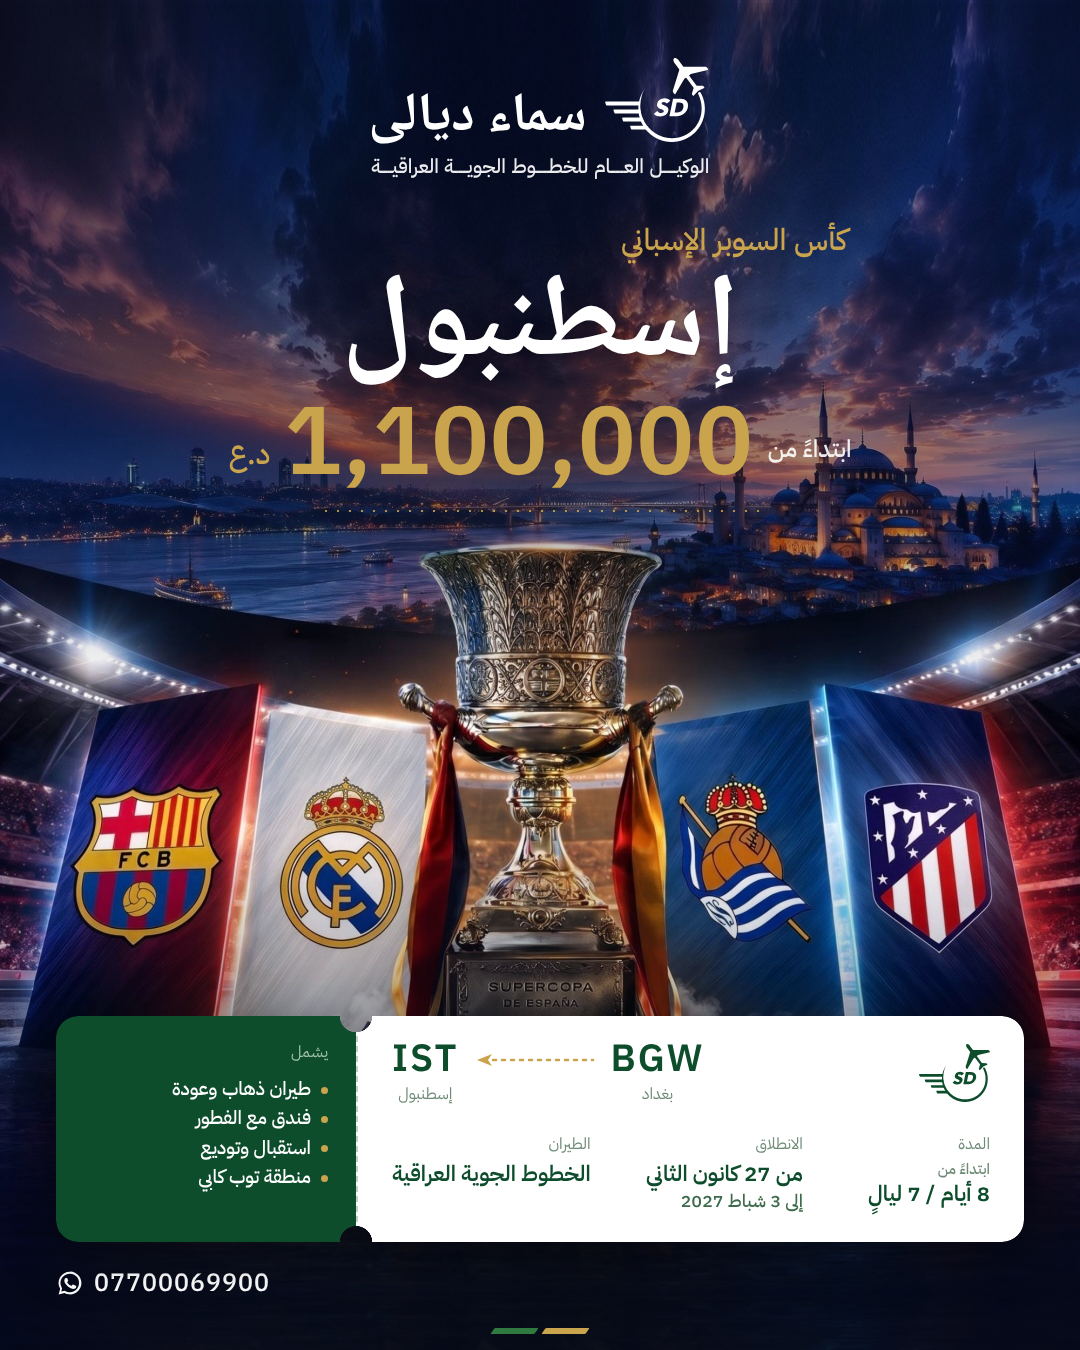
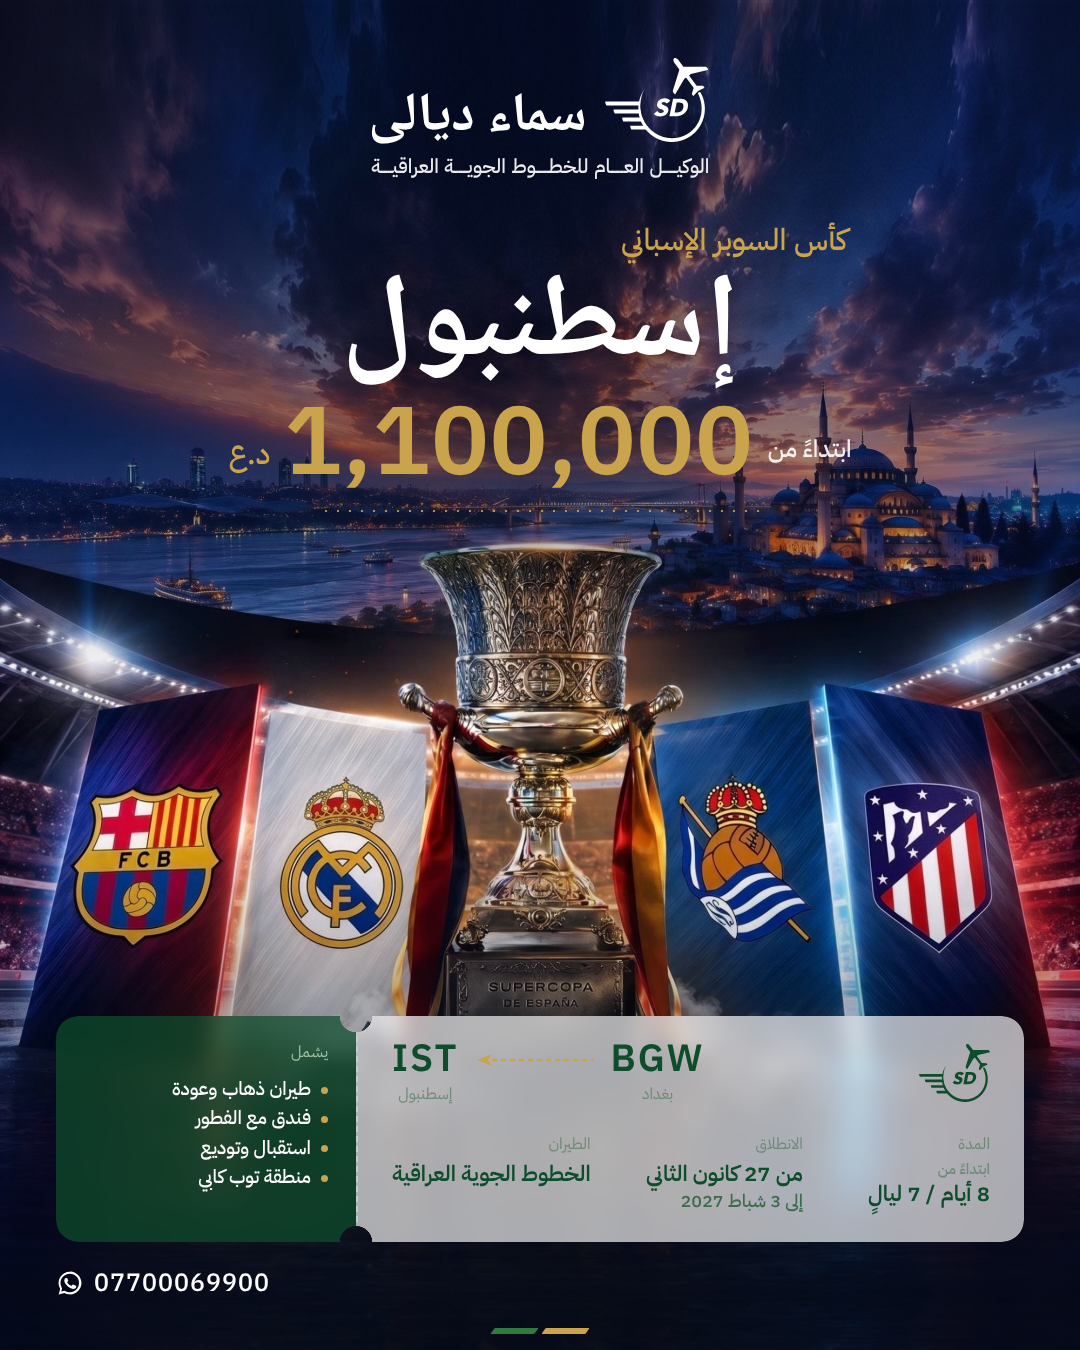
كأس السوبر: بطاقة صعود شبه شفافة بتأثير زجاجي
Claude-Session: https://claude.ai/code/session_01EprWPUJDuKvYHn821imCPv

Changed region(s): [[0.1833, 0.7467, 0.9472, 0.9333]]

diff --git a/09-التصاميم/كأس السوبر الإسباني - نظيف مع بطاقة صعود/إعلان.html b/09-التصاميم/كأس السوبر الإسباني - نظيف مع بطاقة صعود/إعلان.html
@@ -54,10 +54,10 @@
   .kicker + .dest{margin-top:10px}
   /* boarding pass at the bottom */
   .pass{position:absolute;left:56px;right:56px;bottom:108px;height:226px;display:flex;direction:rtl;
-        filter:drop-shadow(0 12px 28px rgba(0,0,0,.35))}
-  .pass .main{flex:1;background:#FFFFFF;border-radius:0 22px 22px 0;padding:24px 34px 22px;color:var(--green);position:relative;border-left:2.5px dashed #BFD2C4;
+        filter:none}
+  .pass .main{flex:1;background:rgba(255,255,255,.66);backdrop-filter:blur(10px) saturate(1.1);-webkit-backdrop-filter:blur(14px);border-radius:0 22px 22px 0;padding:24px 34px 22px;color:var(--green);position:relative;border-left:2.5px dashed #BFD2C4;
      -webkit-mask:radial-gradient(circle at 0 0,transparent 16px,#000 16.5px) top/100% 51% no-repeat,radial-gradient(circle at 0 100%,transparent 16px,#000 16.5px) bottom/100% 51% no-repeat}
-  .pass .stubx{width:300px;background:var(--green);border-radius:22px 0 0 22px;padding:24px 28px;color:#FFFFFF;position:relative;
+  .pass .stubx{width:300px;background:rgba(14,77,44,.72);backdrop-filter:blur(10px);-webkit-backdrop-filter:blur(14px);border-radius:22px 0 0 22px;padding:24px 28px;color:#FFFFFF;position:relative;
      -webkit-mask:radial-gradient(circle at 100% 0,transparent 16px,#000 16.5px) top/100% 51% no-repeat,radial-gradient(circle at 100% 100%,transparent 16px,#000 16.5px) bottom/100% 51% no-repeat}
   .pass .cut{width:0;position:relative;border-right:2.5px dashed #BFD2C4;background:#fff}
   .pass .cut::before,.pass .cut::after{content:"";position:absolute;right:-17px;width:32px;height:32px;border-radius:50%;background:#2a2a35}
